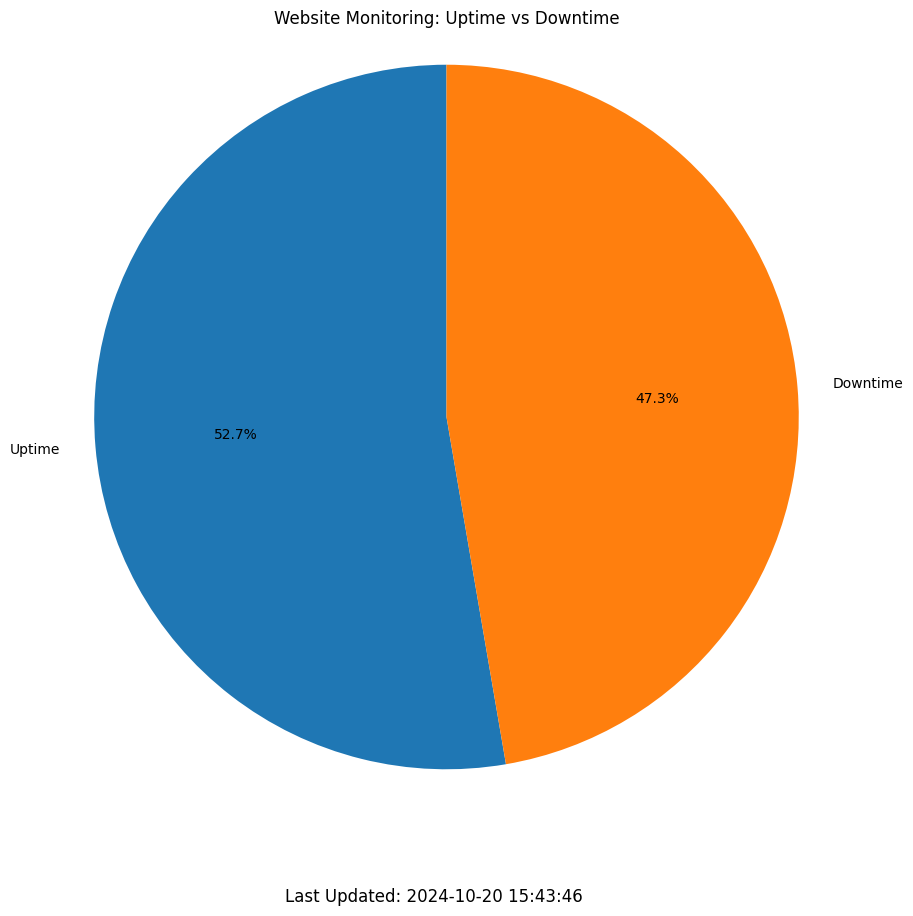
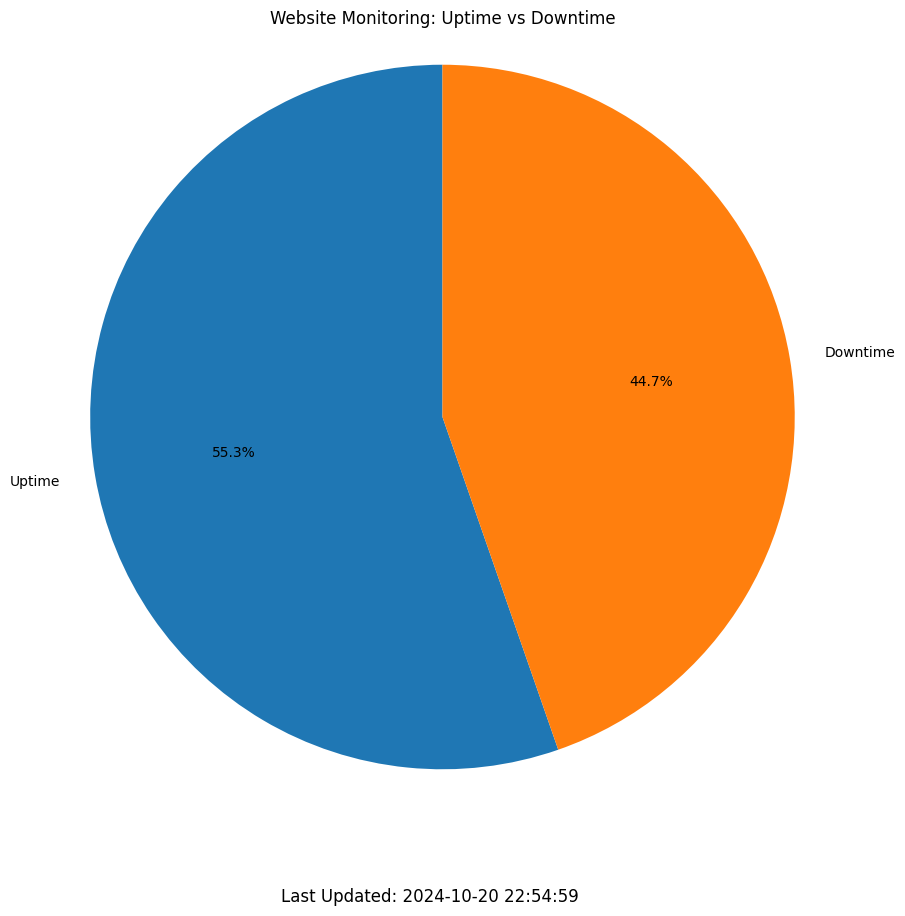
Replaced Mathploblib with Plotly

diff --git a/graph.py b/graph.py
@@ -1,20 +1,15 @@
 import gspread
-from google.oauth2.service_account import Credentials
 from datetime import timedelta, datetime
-import matplotlib.pyplot as plt
+import plotly.graph_objects as go
 import schedule
 import os
 import time
 
-
+gc = gspread.service_account(filename="credentials.json")
 
 def update_graph():
     total_downtime = timedelta()  
-    scope = ["https://spreadsheets.google.com/feeds", "https://www.googleapis.com/auth/drive"]
-    credentials = Credentials.from_service_account_file("credentials.json", scopes=scope)
-    client = gspread.authorize(credentials)
-    spreadsheet = client.open("Website Monitoring")
-
+    spreadsheet = gc.open("Website Monitoring")
     worksheet = spreadsheet.sheet1  
 
     ## CALCULATE TOTAL TIME OF MONITORING ##
@@ -33,20 +28,30 @@ def update_graph():
             h, m, s = map(int, downtime.split(":"))  
             total_downtime += timedelta(hours=h, minutes=m, seconds=s)
 
-
-    # Calculating uptime and make Chart ##
+    # Calculating uptime and making chart ##
     total_uptime = total_monitoring_time - total_downtime
+
     labels = ['Uptime', 'Downtime']
     times = [total_uptime.total_seconds(), total_downtime.total_seconds()]  
-    plt.figure(figsize=(10, 10))
-    plt.pie(times, labels=labels, autopct='%1.1f%%', startangle=90, colors=['#1f77b4', '#ff7f0e'])
-    plt.axis('equal')  
-    plt.title("Website Monitoring: Uptime vs Downtime")
+    fig = go.Figure(data=[go.Pie(labels=labels, values=times, hole=.3)])
+    fig.update_traces(marker=dict(colors=['#1f77b4', '#ff7f0e']),
+                      hoverinfo='label+percent',  # Show percent on hover
+                      textinfo='percent',         # Show percent in text
+                      textfont_size=15)
+    
+    fig.update_layout(title="Website Monitoring: Uptime vs Downtime", title_x=0.5)
     last_updated = datetime.now().strftime("%Y-%m-%d %H:%M:%S")
-    plt.figtext(0.5, 0.01, f"Last Updated: {last_updated}", ha='center', fontsize=12)
+    fig.add_annotation(
+        x=0.5,
+        y=-0.1,
+        text=f"Last Updated: {last_updated}",
+        showarrow=False,
+        font=dict(size=12),
+        xref="paper", yref="paper"
+    )
+
     relative_path = os.path.join("static", "images", "graph.png")
-    plt.savefig(relative_path, bbox_inches='tight') 
-    plt.close()  
+    fig.write_image(relative_path, format="png") 
 
 schedule.every(15).seconds.do(update_graph)
 while True:
